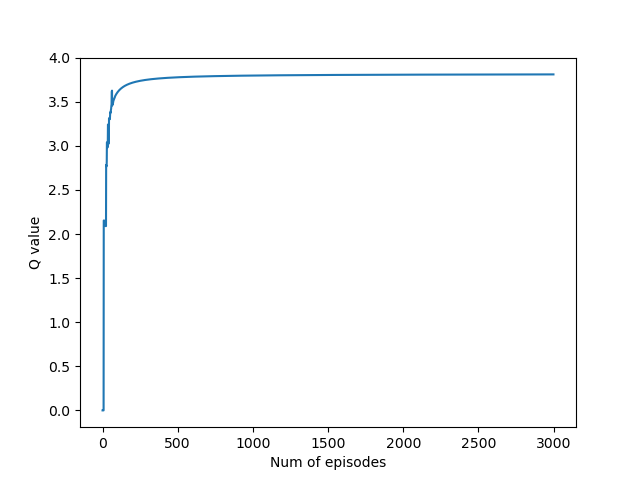
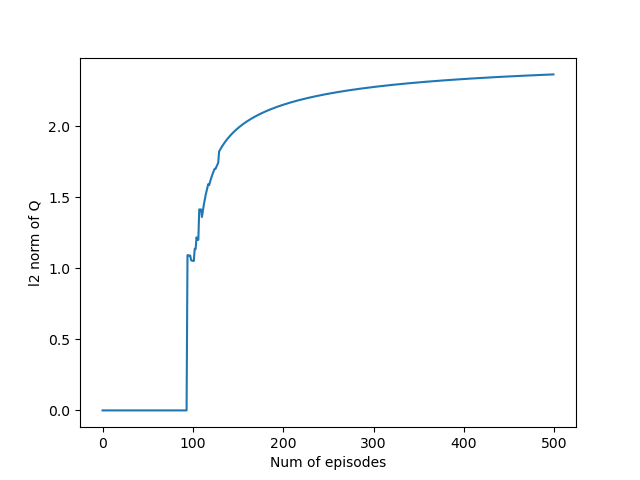
23.02.15.

diff --git a/1_RL_nonDL/src/SARSA_agent.py b/1_RL_nonDL/src/SARSA_agent.py
@@ -1,0 +1,70 @@
+import random
+from collections import deque
+import numpy as np
+
+
+class SARSA_agent:
+    def __init__(self,
+                 ns: int,
+                 na: int,
+                 step: int,
+                 epsilon: float
+                 ):
+
+        self.gamma = 0.99
+        self.alpha = 0.05
+
+        self.ns = ns
+        self.na = na
+        self.step = step
+        self.epsilon = epsilon
+
+        self.q = np.zeros((self.ns, self.na))
+
+        self.states = deque()
+        self.actions = deque()
+        self.rewards = deque()
+
+        self.GLIE = False
+
+    def trajectory_update(self, s, a, r):
+        self.states.append(s)
+        self.actions.append(a)
+        self.rewards.append(r)
+        if len(self.states) == self.step + 2:
+            self.states.popleft()
+            self.actions.popleft()
+            self.rewards.popleft()
+            self.update()
+
+    def trajectory_clear(self):
+        if self.GLIE:
+            self.epsilon *= 0.9
+        self.states = deque()
+        self.actions = deque()
+        self.rewards = deque()
+
+    def update(self):
+        s = self.states[0]
+        a = self.actions[0]
+        s_p = self.states[-1]
+        a_p = self.actions[-1]
+
+        self.q[s][a] -= self.alpha * self.q[s][a]
+        sum_r = 0
+        for r in reversed(self.rewards):
+            sum_r *= self.gamma
+            sum_r += r
+        self.q[s][a]\
+            += self.alpha * (sum_r + (self.gamma**self.step) * (self.q[s_p][a_p]-self.rewards[-1]))
+
+    def get_action(self, state):
+        prob = np.random.uniform(0.0, 1.0, 1)
+
+        if prob <= self.epsilon:
+            action = np.random.choice(range(self.na))
+        else:
+            max_q = max(self.q[state])
+            best_actions = [i for i, v in enumerate(self.q[state]) if v == max_q]
+            action = random.choice(best_actions)
+        return action

diff --git a/1_RL_nonDL/4_step_SARSA.py b/1_RL_nonDL/4_step_SARSA.py
@@ -1,16 +1,16 @@
 # unknown model
 # Policy iteration
-# 1. PE : every-visit MC (Non incremental update)
+# 1. PE : every-visit MC (incremental update)
 # 2. PI : epsilon greedy (custom)
 # 2-1. When selecting an action with Greedy,
 #       if there are multiple actions with the maximum Q value, select one of them at random.
 # 2-2. The GLIE condition triggers from the moment agent first get the reward.
-
+# On-policy
 
 import gym
 import numpy as np
 import matplotlib.pyplot as plt
-from src.MC_agent import MC_agent
+from src.SARSA_agent import SARSA_agent
 
 env = gym.make('FrozenLake-v1', map_name='4x4', is_slippery=False)
 
@@ -18,24 +18,27 @@ ns = env.observation_space.n
 na = env.action_space.n
 
 epsilon = 0.999
-agent = MC_agent(ns, na, epsilon)
+agent = SARSA_agent(ns, na, 2, epsilon)
 num_epi = 500
 
 Q_norm = []
 for _ in range(num_epi):
     s = 0
     env.reset()
-    agent.episode_clear()
+    agent.trajectory_clear()
     while True:
         action = agent.get_action(s)
         ns, reward, done, tmp, _ = env.step(action)
-        agent.episode_stack(s, action, reward)
+        agent.trajectory_update(s, action, reward)
         s = ns
         if done:
-            agent.update()
-            Q_norm.append(np.linalg.norm(agent.q))
-            if reward == 1 and not agent.GLIE:
+            if reward != 0 and not agent.GLIE:
                 agent.GLIE = True
+            for _ in range(agent.step):
+                action = agent.get_action(s)
+                ns, reward, done, tmp, _ = env.step(action)
+                agent.trajectory_update(s, action, reward)
+            Q_norm.append(np.linalg.norm(agent.q))
             break
 
 plt.plot(range(num_epi), Q_norm)

diff --git a/1_RL_nonDL/src/MC_agent.py b/1_RL_nonDL/src/MC_agent.py
@@ -1,6 +1,6 @@
 import random
-
 import numpy as np
+
 
 class MC_agent:
     def __init__(self,
@@ -13,26 +13,24 @@ class MC_agent:
         self.na = na
         self.epsilon = epsilon
 
-        self.eps = 1e-10
-
-        self.n_v = np.zeros(self.ns)
-        self.s_v = np.zeros(self.ns)
         self.n_q = np.zeros((self.ns, self.na))
         self.s_q = np.zeros((self.ns, self.na))
-        self.v = np.zeros(self.ns)
         self.q = np.zeros((self.ns, self.na))
 
         self.states = []
         self.actions = []
         self.rewards = []
 
+        self.eps = 1e-10
+        self.GLIE = False
+
     def episode_stack(self, s, a, r):
         self.states.append(s)
         self.actions.append(a)
         self.rewards.append(r)
 
-    def episode_clear(self, GLIE=False):
-        if GLIE == True:
+    def episode_clear(self):
+        if self.GLIE:
             self.epsilon *= 0.9
         self.states = []
         self.actions = []
@@ -48,16 +46,12 @@ class MC_agent:
             sum_r *= self.gamma
             sum_r += r
 
-            self.n_v[s] += 1
             self.n_q[s, a] += 1
-
-            self.s_v[s] += sum_r
             self.s_q[s, a] += sum_r
 
         self.compute_values()
 
     def compute_values(self):
-        self.v = self.s_v / (self.n_v + self.eps)
         self.q = self.s_q / (self.n_q + self.eps)
 
     def get_action(self, state):

diff --git a/1_RL_nonDL/5_Q_learning.py b/1_RL_nonDL/5_Q_learning.py
@@ -5,12 +5,12 @@
 # 2-1. When selecting an action with Greedy,
 #       if there are multiple actions with the maximum Q value, select one of them at random.
 # 2-2. The GLIE condition triggers from the moment agent first get the reward.
-
+# Off-policy
 
 import gym
 import numpy as np
 import matplotlib.pyplot as plt
-from src.MC_agent import MC_agent
+from src.Q_learning_agent import Q_learning_agent
 
 env = gym.make('FrozenLake-v1', map_name='4x4', is_slippery=False)
 
@@ -18,24 +18,23 @@ ns = env.observation_space.n
 na = env.action_space.n
 
 epsilon = 0.999
-agent = MC_agent(ns, na, epsilon)
+agent = Q_learning_agent(ns, na, epsilon)
 num_epi = 500
 
 Q_norm = []
 for _ in range(num_epi):
     s = 0
     env.reset()
-    agent.episode_clear()
+    agent.epsilon_decaying()
     while True:
         action = agent.get_action(s)
         ns, reward, done, tmp, _ = env.step(action)
-        agent.episode_stack(s, action, reward)
+        agent.update(s, action, reward, ns)
         s = ns
         if done:
-            agent.update()
-            Q_norm.append(np.linalg.norm(agent.q))
-            if reward == 1 and not agent.GLIE:
+            if reward != 0 and not agent.GLIE:
                 agent.GLIE = True
+            Q_norm.append(np.linalg.norm(agent.q))
             break
 
 plt.plot(range(num_epi), Q_norm)

diff --git a/1_RL_nonDL/src/Q_learning_agent.py b/1_RL_nonDL/src/Q_learning_agent.py
@@ -1,0 +1,40 @@
+import random
+import numpy as np
+
+
+class Q_learning_agent:
+    def __init__(self,
+                 ns: int,
+                 na: int,
+                 epsilon: float
+                 ):
+
+        self.gamma = 0.99
+        self.alpha = 0.05
+
+        self.ns = ns
+        self.na = na
+        self.epsilon = epsilon
+
+        self.q = np.zeros((self.ns, self.na))
+        self.GLIE = False
+
+    def update(self, s, a, r, ns):
+        self.q[s][a] -= self.alpha * self.q[s][a]
+        self.q[s][a] += self.alpha*(r + self.gamma * max(self.q[ns]))
+
+    def get_action(self, state):
+        prob = np.random.uniform(0.0, 1.0, 1)
+
+        if prob <= self.epsilon:
+            action = np.random.choice(range(self.na))
+        else:
+            max_q = max(self.q[state])
+            best_actions = [i for i, v in enumerate(self.q[state]) if v == max_q]
+            action = random.choice(best_actions)
+        return action
+
+    def epsilon_decaying(self):
+        if self.GLIE:
+            self.epsilon *= 0.9
+

diff --git a/1_RL_nonDL/src/mdp.py b/1_RL_nonDL/src/mdp.py
@@ -1,6 +1,7 @@
 import numpy as np
 
-class mdp:
+
+class MDP:
     def __init__(self, gamma=0.99, error_tol=1e-3):
         self.gamma = gamma
         self.error_tol = error_tol
@@ -18,9 +19,9 @@ class mdp:
         self.na = env.action_space.n
         self.policy = np.ones([self.ns, self.na]) / self.na
 
-        self.P\
+        self.P \
             = np.array([[[0 for _ in range(self.ns)] for _ in range(self.na)] for _ in range(self.ns)])
-        self.R\
+        self.R \
             = np.array([[0 for _ in range(self.na)] for _ in range(self.ns)])
         for i in range(self.ns):
             for j in range(self.na):
@@ -78,7 +79,7 @@ class mdp:
     def value_iteration(self):
         old_v = np.zeros(self.ns)
         while True:
-            new_v\
+            new_v \
                 = (self.R + self.gamma * np.einsum('nam,m->na', self.P, old_v)).max(axis=-1)
             err = np.linalg.norm(new_v - old_v)
             if err <= self.error_tol:

diff --git a/1_RL_nonDL/1_DP_PI.py b/1_RL_nonDL/1_DP_PI.py
@@ -1,12 +1,12 @@
 # FrozenLake-v1 / MDP policy iteration
 import gym
 from gym.envs.toy_text.frozen_lake import generate_random_map
-from src.mdp import mdp
+from src.mdp import MDP
 
 env = gym.make('FrozenLake-v1', desc=generate_random_map(size=8), is_slippery=False, render_mode='human')
 env.reset()
 
-agent = mdp()
+agent = MDP()
 agent.initialize_env(env)
 policy = agent.policy_iteration(agent.policy)
 

diff --git a/1_RL_nonDL/2_DP_VI.py b/1_RL_nonDL/2_DP_VI.py
@@ -1,12 +1,12 @@
 # FrozenLake-v1 / MDP value iteration
 import gym
 from gym.envs.toy_text.frozen_lake import generate_random_map
-from src.mdp import mdp
+from src.mdp import MDP
 
 env = gym.make('FrozenLake-v1', desc=generate_random_map(size=8), is_slippery=False, render_mode='human')
 env.reset()
 
-agent = mdp()
+agent = MDP()
 agent.initialize_env(env)
 policy = agent.value_iteration()
 
